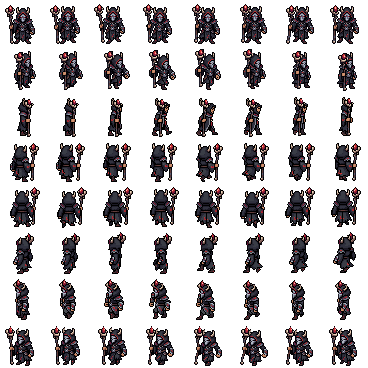
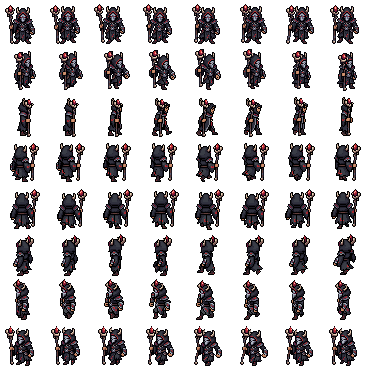
Every hero form stands on the ground in every pose and direction; softer, more natural pixel shadows that breathe with the steps [skip ci]
Claude-Session: https://claude.ai/code/session_018WYR7LhPJuZfA1TEgyVBxe

diff --git a/src/world/pxShadow.ts b/src/world/pxShadow.ts
@@ -5,23 +5,27 @@
 import Phaser from 'phaser';
 
 const RGB = '6,10,8';
+// 4 × 4 ordered (Bayer) dither: the shadow fades out in many small pixel steps instead of three hard rings (director:
+// "prettier, more realistic" — still crisp pixels, no blur)
+const BAYER = [0, 8, 2, 10, 12, 4, 14, 6, 3, 11, 1, 9, 15, 7, 13, 5].map(v => (v + 0.5) / 16);
 /** texture of a w × h pixel oval (made once per size) */
 export function pxShadowKey(scene: Phaser.Scene, w: number, h: number) {
   w = Math.max(4, Math.round(w)); h = Math.max(3, Math.round(h));
-  const key = `pxsh2_${w}_${h}`;
+  const key = `pxsh3_${w}_${h}`;
   if (scene.textures.exists(key)) return key;
   const cv = document.createElement('canvas'); cv.width = w; cv.height = h;
   const k = cv.getContext('2d')!;
-  const rx = w / 2, ry = h / 2, ox = w * 0.06, oy = h * 0.08;   // the darkest spot sits a little right / down
+  const rx = w / 2, ry = h / 2, ox = w * 0.05, oy = h * 0.1;   // the darkest spot sits a little right / down (light from the upper left)
   for (let j = 0; j < h; j++) for (let i = 0; i < w; i++) {
-    const dx = (i + 0.5 - rx) / rx, dy = (j + 0.5 - ry) / ry, d = dx * dx + dy * dy;
+    const dx = (i + 0.5 - rx) / rx, dy = (j + 0.5 - ry) / ry, d = Math.sqrt(dx * dx + dy * dy);
     if (d > 1) continue;
-    const cx = (i + 0.5 - rx - ox) / rx, cy = (j + 0.5 - ry - oy) / ry, c = cx * cx + cy * cy;
+    const cx = (i + 0.5 - rx - ox) / rx, cy = (j + 0.5 - ry - oy) / ry, c = Math.sqrt(cx * cx + cy * cy);
+    // a near-black contact core under the feet, a solid body getting lighter outward, then a dithered fade to the rim
     let a = 0;
-    if (c <= 0.3) a = 1;                        // core
-    else if (d <= 0.62) a = 0.78;               // middle band
-    else if ((i + j) % 2 === 0) a = 0.55;       // dithered rim
-    if (a) { k.fillStyle = `rgba(${RGB},${a})`; k.fillRect(i, j, 1, 1); }
+    if (c <= 0.42) a = 0.95;
+    else if (d <= 0.66) a = 0.62 + 0.25 * (1 - d / 0.66);
+    else if ((1 - d) / 0.34 > BAYER[(j % 4) * 4 + (i % 4)]) a = 0.5;
+    if (a) { k.fillStyle = `rgba(${RGB},${a.toFixed(2)})`; k.fillRect(i, j, 1, 1); }
   }
   scene.textures.addCanvas(key, cv);
   return key;

diff --git a/src/scenes/TopDownScene.ts b/src/scenes/TopDownScene.ts
@@ -200,6 +200,7 @@ const ROCKY = /^(rock_|ore_|pebble_|pp_\w+_(boulder|rockpile|vinerock|skullrock|
 export class TopDownScene extends Phaser.Scene {
   hero!: Phaser.GameObjects.Sprite;
   shadow!: Phaser.GameObjects.Image;
+  shLast = { x: 0, y: 0 };
   blocked!: Uint8Array;
   keys?: Record<string, Phaser.Input.Keyboard.Key>;
   dir = 0;
@@ -2300,7 +2301,11 @@ export class TopDownScene extends Phaser.Scene {
       const st = this.stageN && !this.wild && !this.dungeon ? STAGES[this.stageN - 1] : null;
       this.label.setText(`${st ? `ด่าน ${st.n} ${st.land.name} (Lv${st.level})` : 'หมู่บ้าน'} • Lv${s0.level} • HP ${Math.round(s0.hp)}/${d0.maxHp} • ${s0.gold}G • ร่าง ${this.F.name}`);
     }
-    if (!this.dead) this.shadow.setPosition(h.x, h.y - 1);
+    if (!this.dead) {   // the shadow breathes with the steps while walking (a foot lifts = a touch smaller), still when standing
+      const mv = Math.hypot(h.x - this.shLast.x, h.y - this.shLast.y) > 0.2; this.shLast = { x: h.x, y: h.y };
+      const k = mv && !this.riding ? 1 - 0.07 * Math.abs(Math.sin(time / 95)) : 1;
+      this.shadow.setPosition(h.x, h.y - 1).setScale(k, 1 - (1 - k) * 0.5);
+    }
     { const t = titleOf(S()); this.titleTx.setText(t ? `「${t}」` : '').setPosition(h.x, h.y - 46).setVisible(!this.dead); }
     for (const [i, l] of this.lamps.entries()) l.setAlpha((0.75 + Math.sin(time / 180 + i * 1.7) * 0.12) * (l.getData('base') ?? 1));
     this.updateDayNight(time);

diff --git a/HANDOFF.md b/HANDOFF.md
@@ -27,6 +27,8 @@
 
 **มอนบุก (14 พ.ย. ค่ำ):** ดาเมจมอน ×0.95 อีกรอบ (`raidAtk` ×0.95×0.95) · คนตาย: เก็บ "ตายถึงเวลา" ในเครื่อง (`RAID_FALLEN_KEY` = Date.now()+RAID_SECS) แตะแถบเข้าช่วยจะเตือน "คุณตายแล้ว" · เซิร์ฟ: คนใน `fallen` ตีมอนไม่นับ kill/หีบ และมอนไม่หันมาไล่
 
+**ตัวละคร/เงา (14 พ.ย. ดึก):** จัดเท้าทุกร่างผู้เล่น (hero, heroF, hg, hr1–12) ทุกท่าทุกทิศให้ระดับเดียวกัน (ขยับ webp ลง 2–4px ทิศที่ลอย; ข้าม hg_mine / hr9_attack เพราะเครื่องมือ/อาวุธต่ำกว่าเท้า) · เงา `pxShadow` แบบใหม่ `pxsh3_` (แกนดำ + ไล่โทน + Bayer dither) · เงาฮีโร่ยุบขยายตามจังหวะเดิน (`shLast`)
+
 **ค้าง / ถัดไป**
 - BACKLOG: รางวัลออฟไลน์ (สลับแท็บแล้วเกมหยุด), เพิ่มช่องสวมอุปกรณ์ (ทำทีหลัง), รีวิวเพดาน 21 พ.ย.
 - ไอเดียที่เสนอแล้วยังไม่ตอบ: บัตรรายเดือน 99฿, ชุดอุปกรณ์ใหม่ (ต้องเติม PixelLab), หอคอย/แผนที่สมบัติ
